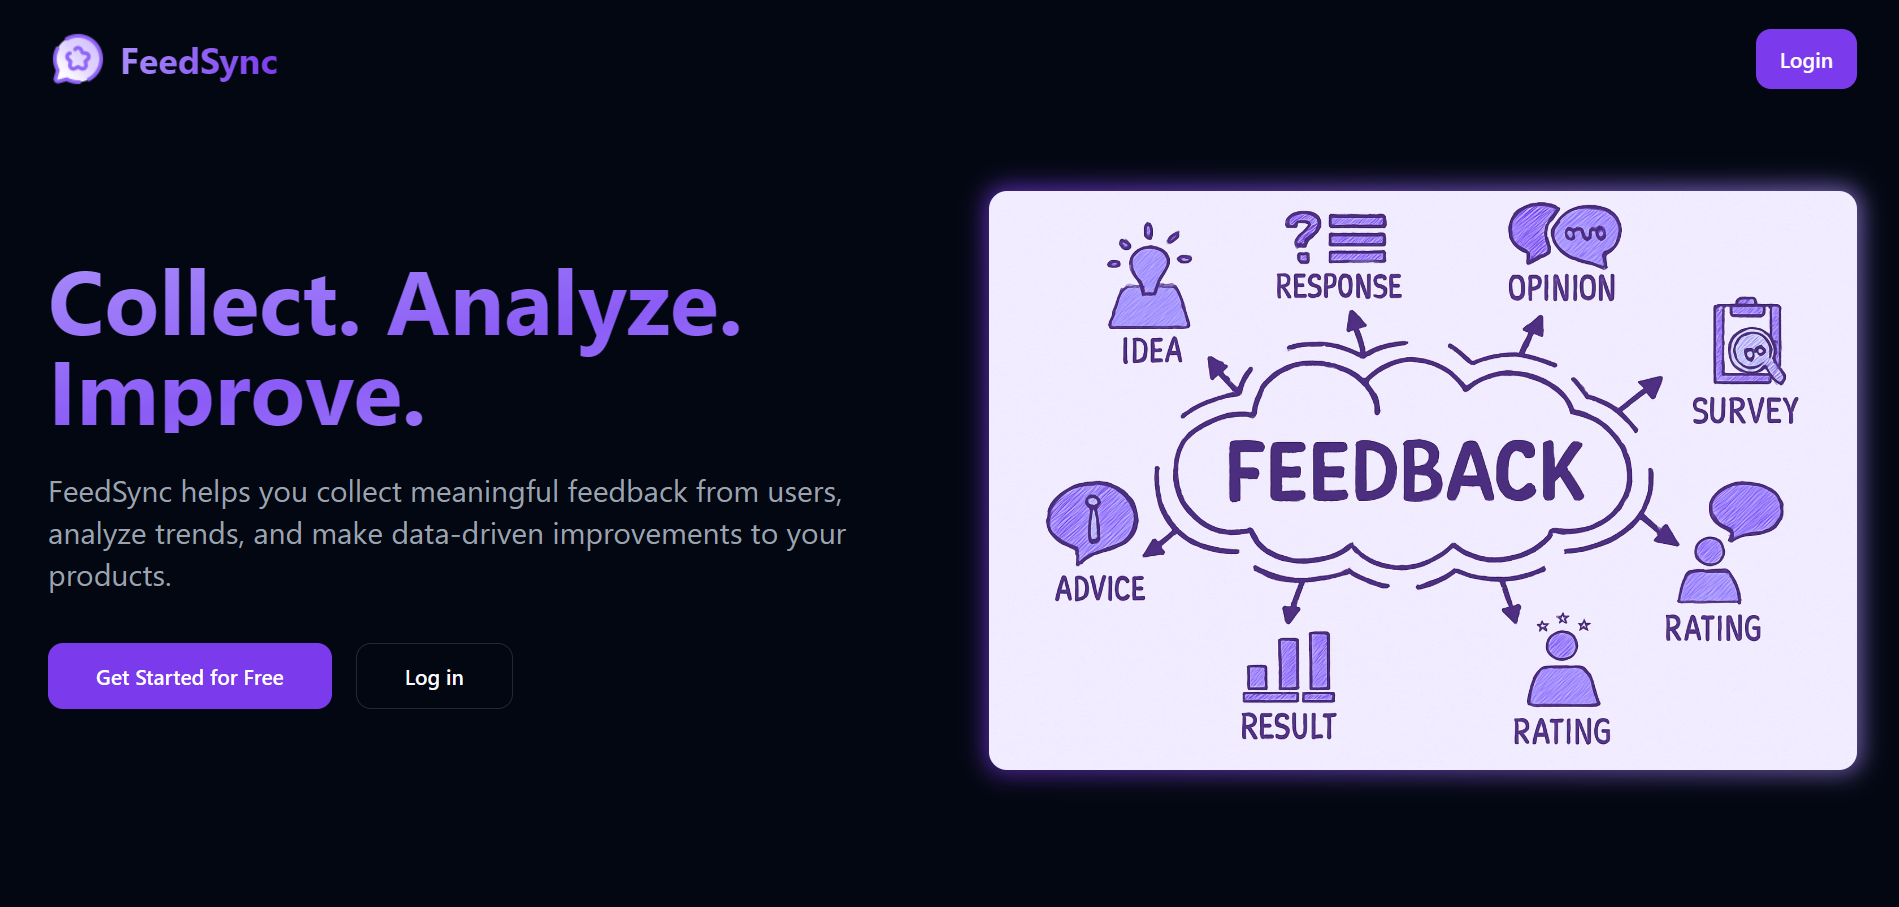
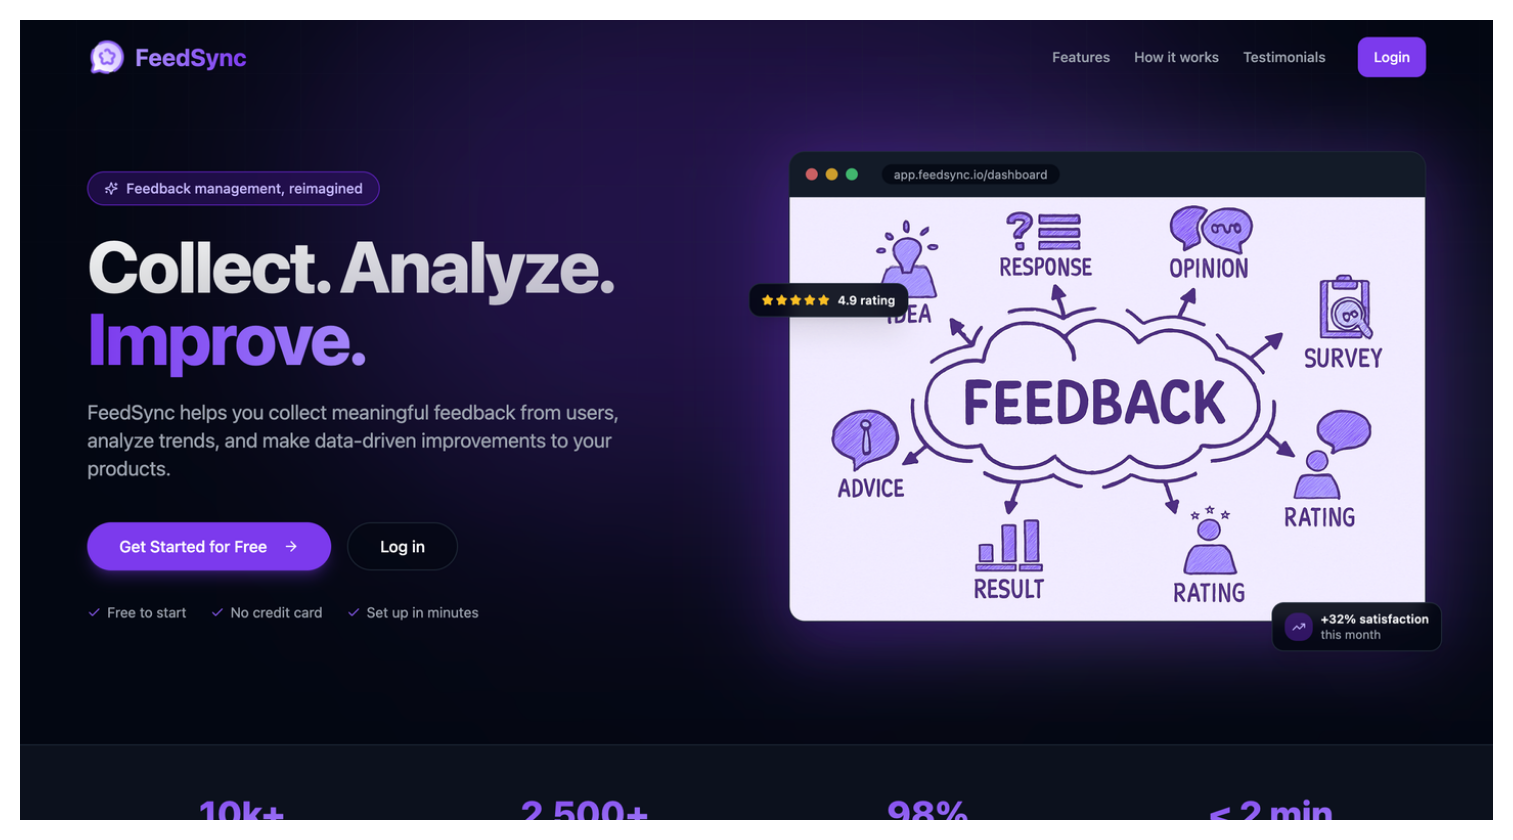
feat(projects): add PlanEase to featured projects
Add PlanEase as the first featured project with its preview image,
tech stack, live link and repo link. Refresh the FeedSync preview
screenshot and collapse the ChatEase filter array onto one line.

diff --git a/src/data/data.js b/src/data/data.js
@@ -2,6 +2,20 @@ const projects = [
   /************************
    * Featured Projects
    *************************/
+  // PlanEase
+  {
+    id: "f66311b7-97d4-4a12-9e36-52eb145de04f",
+    isFeatured: true,
+    title: "PlanEase",
+    filter: ["react", "nextjs", "tailwind", "nodejs", "mongodb"],
+    preview: "/projects/plan-ease.png",
+    techStack: ["Next Js", "React", "Tailwind CSS", "MongoDB", "Framer Motion"],
+    livePreview: "https://planease.rahultech.in",
+    code: "https://github.com/irahuldutta02/plan-ease",
+    note: "",
+    download:
+      "https://downgit.github.io/#/home?url=https://github.com/irahuldutta02/plan-ease",
+  },
   // FeedSync
   {
     id: "2b2bad37-2a58-44c0-9138-35d473907dd31",
@@ -28,14 +42,7 @@ const projects = [
     id: "207810ea-fe92-4a23-a0d8-857ce8c65b9b",
     isFeatured: true,
     title: "ChatEase",
-    filter: [
-      "react",
-      "express",
-      "socket.io",
-      "mongodb",
-      "nodejs",
-      "tailwind",
-    ],
+    filter: ["react", "express", "socket.io", "mongodb", "nodejs", "tailwind"],
     preview: "/projects/chat-ease.png",
     techStack: ["React Js", "Express Js", "Socket.io", "MongoDB", "Node Js"],
     livePreview: "https://chatease.rahultech.in",
